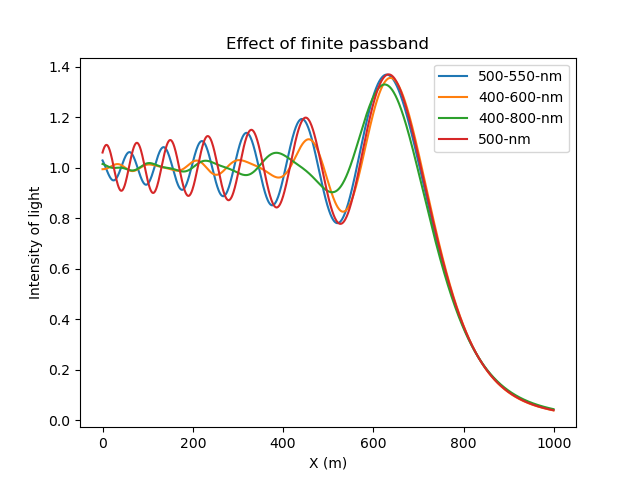
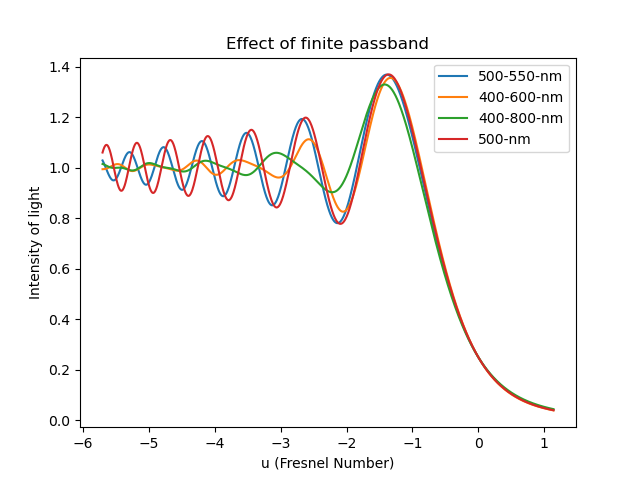
fixed x values in combined plot

diff --git a/plotter.py b/plotter.py
@@ -1,6 +1,7 @@
 import os
 import numpy as np
 import matplotlib.pyplot as plt
+from params import *
 
 folder_path = 'int_arr'
 
@@ -14,10 +15,11 @@ for file_name in file_list:
     data_list.append(data)
     labels.append(label)
 
+u_values = np.sqrt(2 / (lmda * dist)) * np.linspace(-50, 10, 1000)
 for data, label in zip(data_list, labels):
-    plt.plot(data, label=label)
+    plt.plot(u_values, data, label=label)
 
-plt.xlabel('X (m)')
+plt.xlabel('u (Fresnel Number)')
 plt.ylabel('Intensity of light')
 plt.title('Effect of finite passband')
 plt.legend()

diff --git a/diff_mono.py b/diff_mono.py
@@ -18,7 +18,6 @@ plt.grid(True)
 folder_path = "int_arr"
 if not os.path.exists(folder_path):
     os.makedirs(folder_path)
-
 file_path = os.path.join(folder_path, f"mono-{(lmda)*1e9:.0f}-nm")
 np.save(file_path, intensity)
 plt.show()
